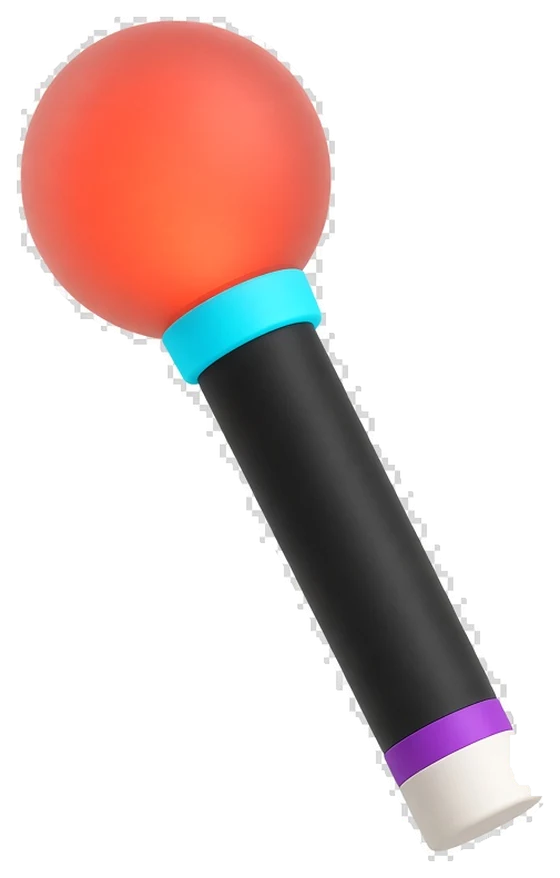
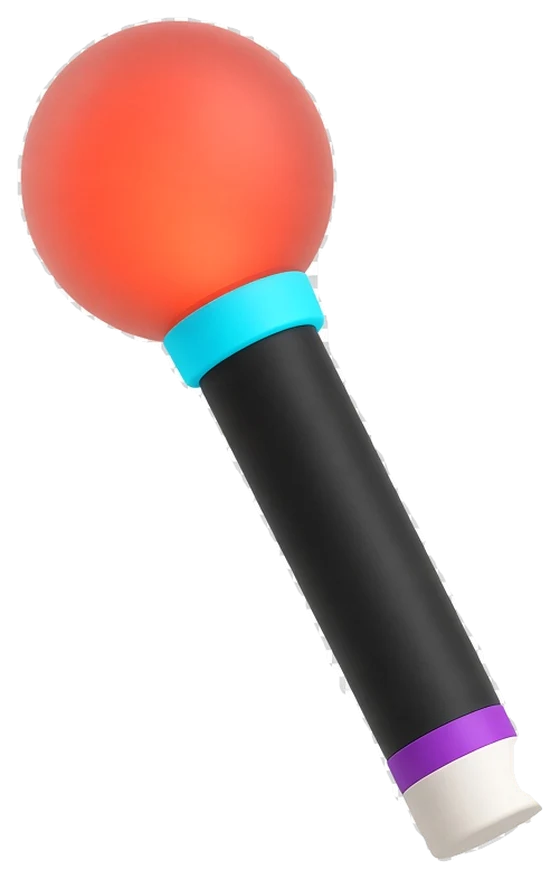
Land the four fandom cut-outs, and cap the guide object
The lightstick, the foil-edged photocard, the ticket-and-wristband flat lay
and the album stack are in, and guide 05 points at the album stack rather
than the parcel box it used to show — a parcel box on a page about buying
albums is a shipping company's illustration, which was the problem with the
old set in miniature.

The guide object is capped at 420px rather than 560. These pieces are not all
the same shape, and a square one at the old width pushed a thousand pixels of
guide below the fold to show an object nobody came for.

Recovering alpha from the flattened checkerboard took several passes, and the
three distinct failures are documented in public/img/README.md because each
one is invisible until it is not:

  · A bone-white part touching the checker produces a window holding the cap's
    white and the checker's grey, which is the checker's own ratio — so the
    fill walks into the object. The lightstick's end cap went that way.
  · A dark part does the same from the other side: the straddle band has no
    ratio near the checker's, is never claimed, and survives as a rim of fully
    opaque pure white. That was the sawtooth that kept coming back after the
    outline itself had been rounded — it is not on the outline, it is seven
    pixels inside it.
  · Enclosed pockets — inside a wristband loop, between slogan flags — are
    background the border fill cannot reach by definition.

Still carrying a known flaw: those pockets are in the objects' own soft
[…]

diff --git a/kpopgo/content/artwork.ts b/kpopgo/content/artwork.ts
@@ -117,7 +117,7 @@ export const artwork: ArtPiece[] = [
     id: "pc-foil",
     file: "pc-foil.webp",
     width: 720,
-    height: 1202,
+    height: 1273,
     alt: "A blank collectible card standing upright, its border a band of iridescent foil.",
     placement: "Home — beside the guides heading, where the photocard idea is introduced",
     prompt:
@@ -131,7 +131,7 @@ export const artwork: ArtPiece[] = [
     id: "lightstick",
     file: "lightstick.webp",
     width: 560,
-    height: 878,
+    height: 879,
     alt: "A generic concert lightstick — a translucent sphere glowing on a straight handle.",
     placement: "Home hero, lower right — the object that names the subject on sight",
     prompt:
@@ -157,7 +157,7 @@ export const artwork: ArtPiece[] = [
     id: "album-stack",
     file: "album-stack.webp",
     width: 820,
-    height: 840,
+    height: 841,
     alt: "Three square album cases stacked at slight angles, in vermilion, violet and bone white.",
     placement: "Guide 05 — buying albums from overseas",
     prompt:

diff --git a/kpopgo/app/guides/[slug]/page.tsx b/kpopgo/app/guides/[slug]/page.tsx
@@ -77,7 +77,10 @@ export default async function GuidePage({
       </header>
 
       {/* ─────────── The guide's own object ─────────── */}
-      <div className="wrap mt-10 max-w-[560px]">
+      {/* Capped narrower than it used to be: the pieces are not all the same
+          shape, and a square one at 560px pushed a thousand pixels of guide
+          below the fold to show an object nobody came for. */}
+      <div className="wrap mt-10 max-w-[420px]">
         <Artwork name={guide.art} fallback={null} priority />
       </div>
 

diff --git a/kpopgo/app/guides/page.tsx b/kpopgo/app/guides/page.tsx
@@ -26,7 +26,7 @@ export default function GuidesIndex() {
       </p>
 
       {/* What a sale actually hands you, in the site's own objects. */}
-      <div className="mx-auto mt-10 max-w-[560px] sm:mt-12">
+      <div className="mx-auto mt-10 max-w-[480px] sm:mt-12">
         <Artwork name="fan-kit" fallback={null} priority />
       </div>
 

diff --git a/kpopgo/public/img/README.md b/kpopgo/public/img/README.md
@@ -8,10 +8,10 @@ back to the SVG when it is missing, so the site builds and ships either way.
 | --- | --- | --- |
 | `hero-stage.jpg` | 1800 × 1012 | Home hero — **in place** |
 | `band-crowd.jpg` | 1800 × 524 | Crowd band — **in place** |
-| `lightstick.webp` | 560 × 834 | Hero, laid over the photograph — **in place** |
-| `pc-foil.webp` | 720 × 1001 | Home, beside the guides heading — **in place** |
+| `lightstick.webp` | 560 × 879 | Hero, laid over the photograph — **in place** |
+| `pc-foil.webp` | 720 × 1273 | Home, beside the guides heading — **in place** |
 | `fan-kit.webp` | 960 × 620 | Guides index header — **in place** |
-| `album-stack.webp` | 820 × 840 | Guide 05 — **in place** |
+| `album-stack.webp` | 820 × 841 | Guide 05 — **in place** |
 | `guide-tickets.webp` | 720 × 420 | Guide 01 — **in place** |
 | `guide-nol.webp` | 720 × 590 | Guide 02 — **in place** |
 | `guide-presale.webp` | 720 × 409 | Guide 03 — still on the drawn fallback |
